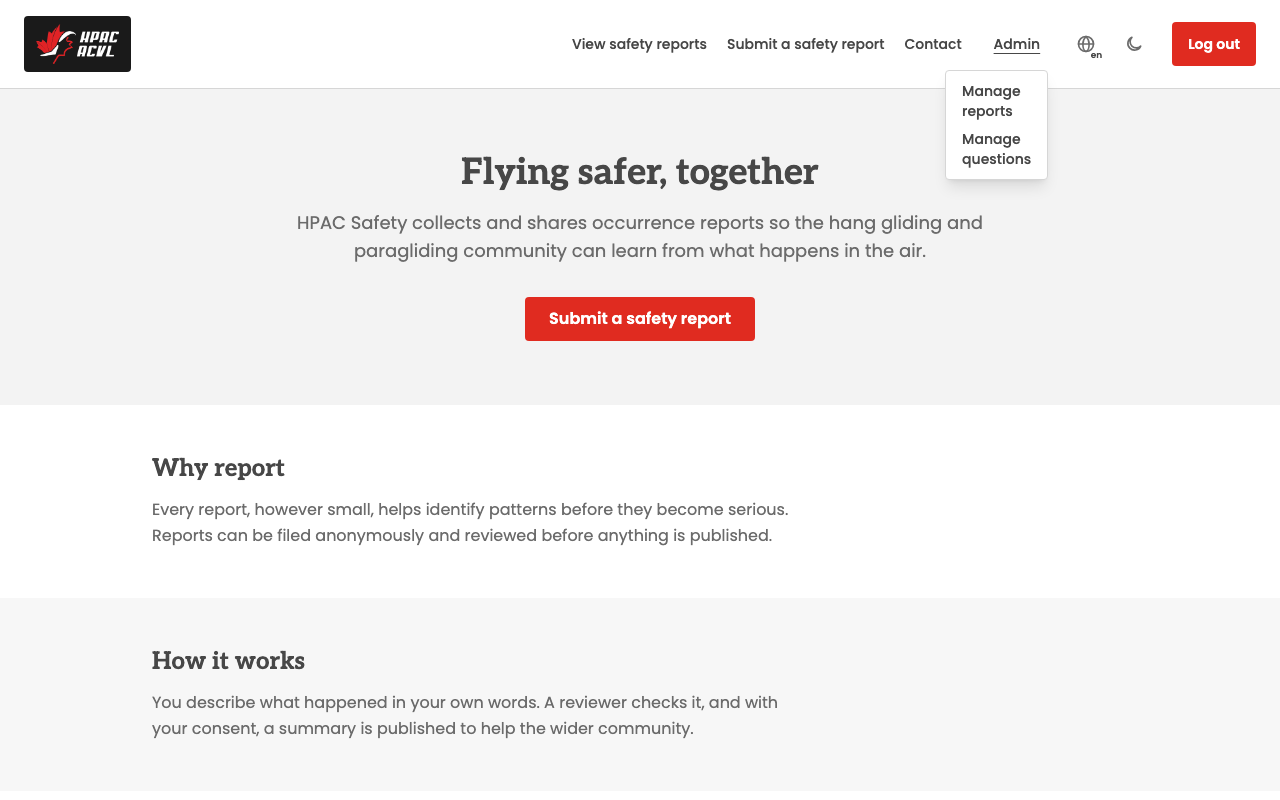
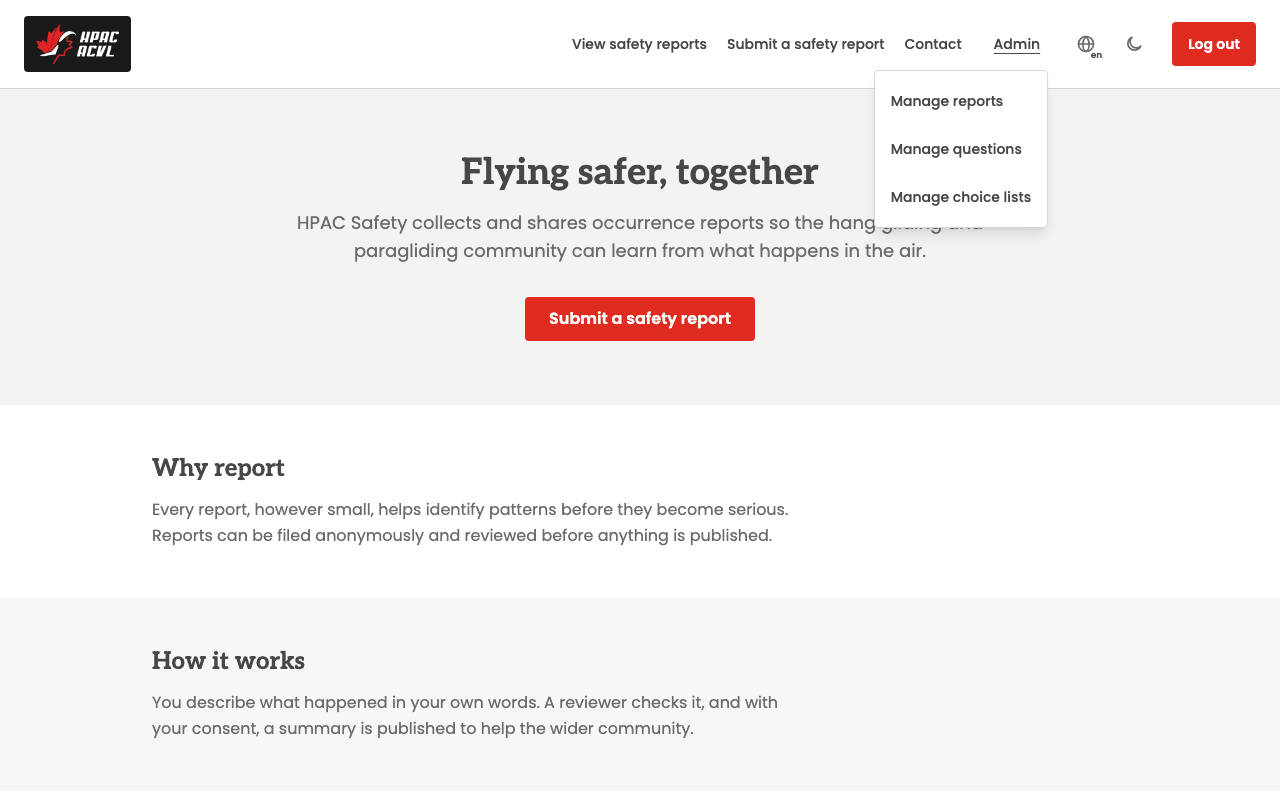
Keep each Admin menu option on one line (#187)
The desktop Admin dropdown inherited the width of the Admin button, so
"Manage choice lists" wrapped onto two lines and was hard to read. The
panel now sizes itself to its widest option (`w-max`) and the options no
longer wrap (`whitespace-nowrap`). The stacked mobile menu is unchanged.

A new `@ui` scenario counts each option's line boxes and compares its
scroll width to its client width, so both wrapping and truncation fail
the build. Verified it fails on the old markup and passes on the new
one.

### Before
![Admin menu
before](https://raw.githubusercontent.com/HPAC-Safety/safety-report/2f88e17a/docs/screenshots/header-admin-menu/desktop-admin-menu-open.png)

### After
![Admin menu
after](https://raw.githubusercontent.com/HPAC-Safety/safety-report/issue-186/admin-menu-single-line/docs/screenshots/header-admin-menu/desktop-admin-menu-open.png)

Closes #186

Changed region(s): [[0.6875, 0.0938, 0.8125, 0.3125]]

diff --git a/src/web/src/components/AdminMenu.tsx b/src/web/src/components/AdminMenu.tsx
@@ -3,7 +3,7 @@ import { Link } from "react-router-dom"
 import { useLocale } from "../i18n/useLocale"
 
 const rowLinkClassName =
-	"touch-target flex items-center rounded px-4 font-sans text-sm font-medium text-ink underline-offset-4 hover:underline"
+	"touch-target flex items-center whitespace-nowrap rounded px-4 font-sans text-sm font-medium text-ink underline-offset-4 hover:underline"
 
 const stackedLinkClassName =
 	"touch-target flex items-center rounded px-2 font-sans text-base font-medium text-ink underline-offset-4 hover:underline"
@@ -63,7 +63,7 @@ export function AdminMenu({ stacked = false, onNavigate }: { stacked?: boolean; 
 					className={
 						stacked
 							? "mt-1 flex flex-col gap-1 border-l border-rule pl-4"
-							: "absolute right-0 top-full z-50 mt-1 flex flex-col gap-1 rounded border border-rule bg-surface py-2 shadow-lg"
+							: "absolute right-0 top-full z-50 mt-1 flex w-max flex-col gap-1 rounded border border-rule bg-surface py-2 shadow-lg"
 					}
 				>
 					<Link role="menuitem" to="/admin/reports" onClick={selectItem} className={stacked ? stackedLinkClassName : rowLinkClassName}>

diff --git a/tests/e2e/steps/member-login.steps.ts b/tests/e2e/steps/member-login.steps.ts
@@ -59,6 +59,30 @@ Then("it opens with manage-reports and manage-questions options", async ({ page 
 	await expect(menu.getByRole("menuitem", { name: "Manage questions" })).toBeVisible()
 })
 
+Then("every option is on one line and none is truncated", async ({ page }) => {
+	const options = await page
+		.getByRole("menu", { name: "Admin" })
+		.getByRole("menuitem")
+		.evaluateAll((items) =>
+			items.map((item) => {
+				const range = document.createRange()
+				range.selectNodeContents(item)
+				return {
+					text: item.textContent ?? "",
+					lineBoxes: range.getClientRects().length,
+					clientWidth: item.clientWidth,
+					scrollWidth: item.scrollWidth,
+				}
+			}),
+		)
+
+	expect(options.length).toBeGreaterThan(0)
+	for (const option of options) {
+		expect(option.lineBoxes, `"${option.text}" wraps onto more than one line`).toBe(1)
+		expect(option.scrollWidth, `"${option.text}" is truncated`).toBeLessThanOrEqual(option.clientWidth)
+	}
+})
+
 const ADMIN_MENU_DESTINATIONS: Record<string, string> = {
 	"manage-reports": "/admin/reports",
 	"manage-questions": "/admin/questions",
